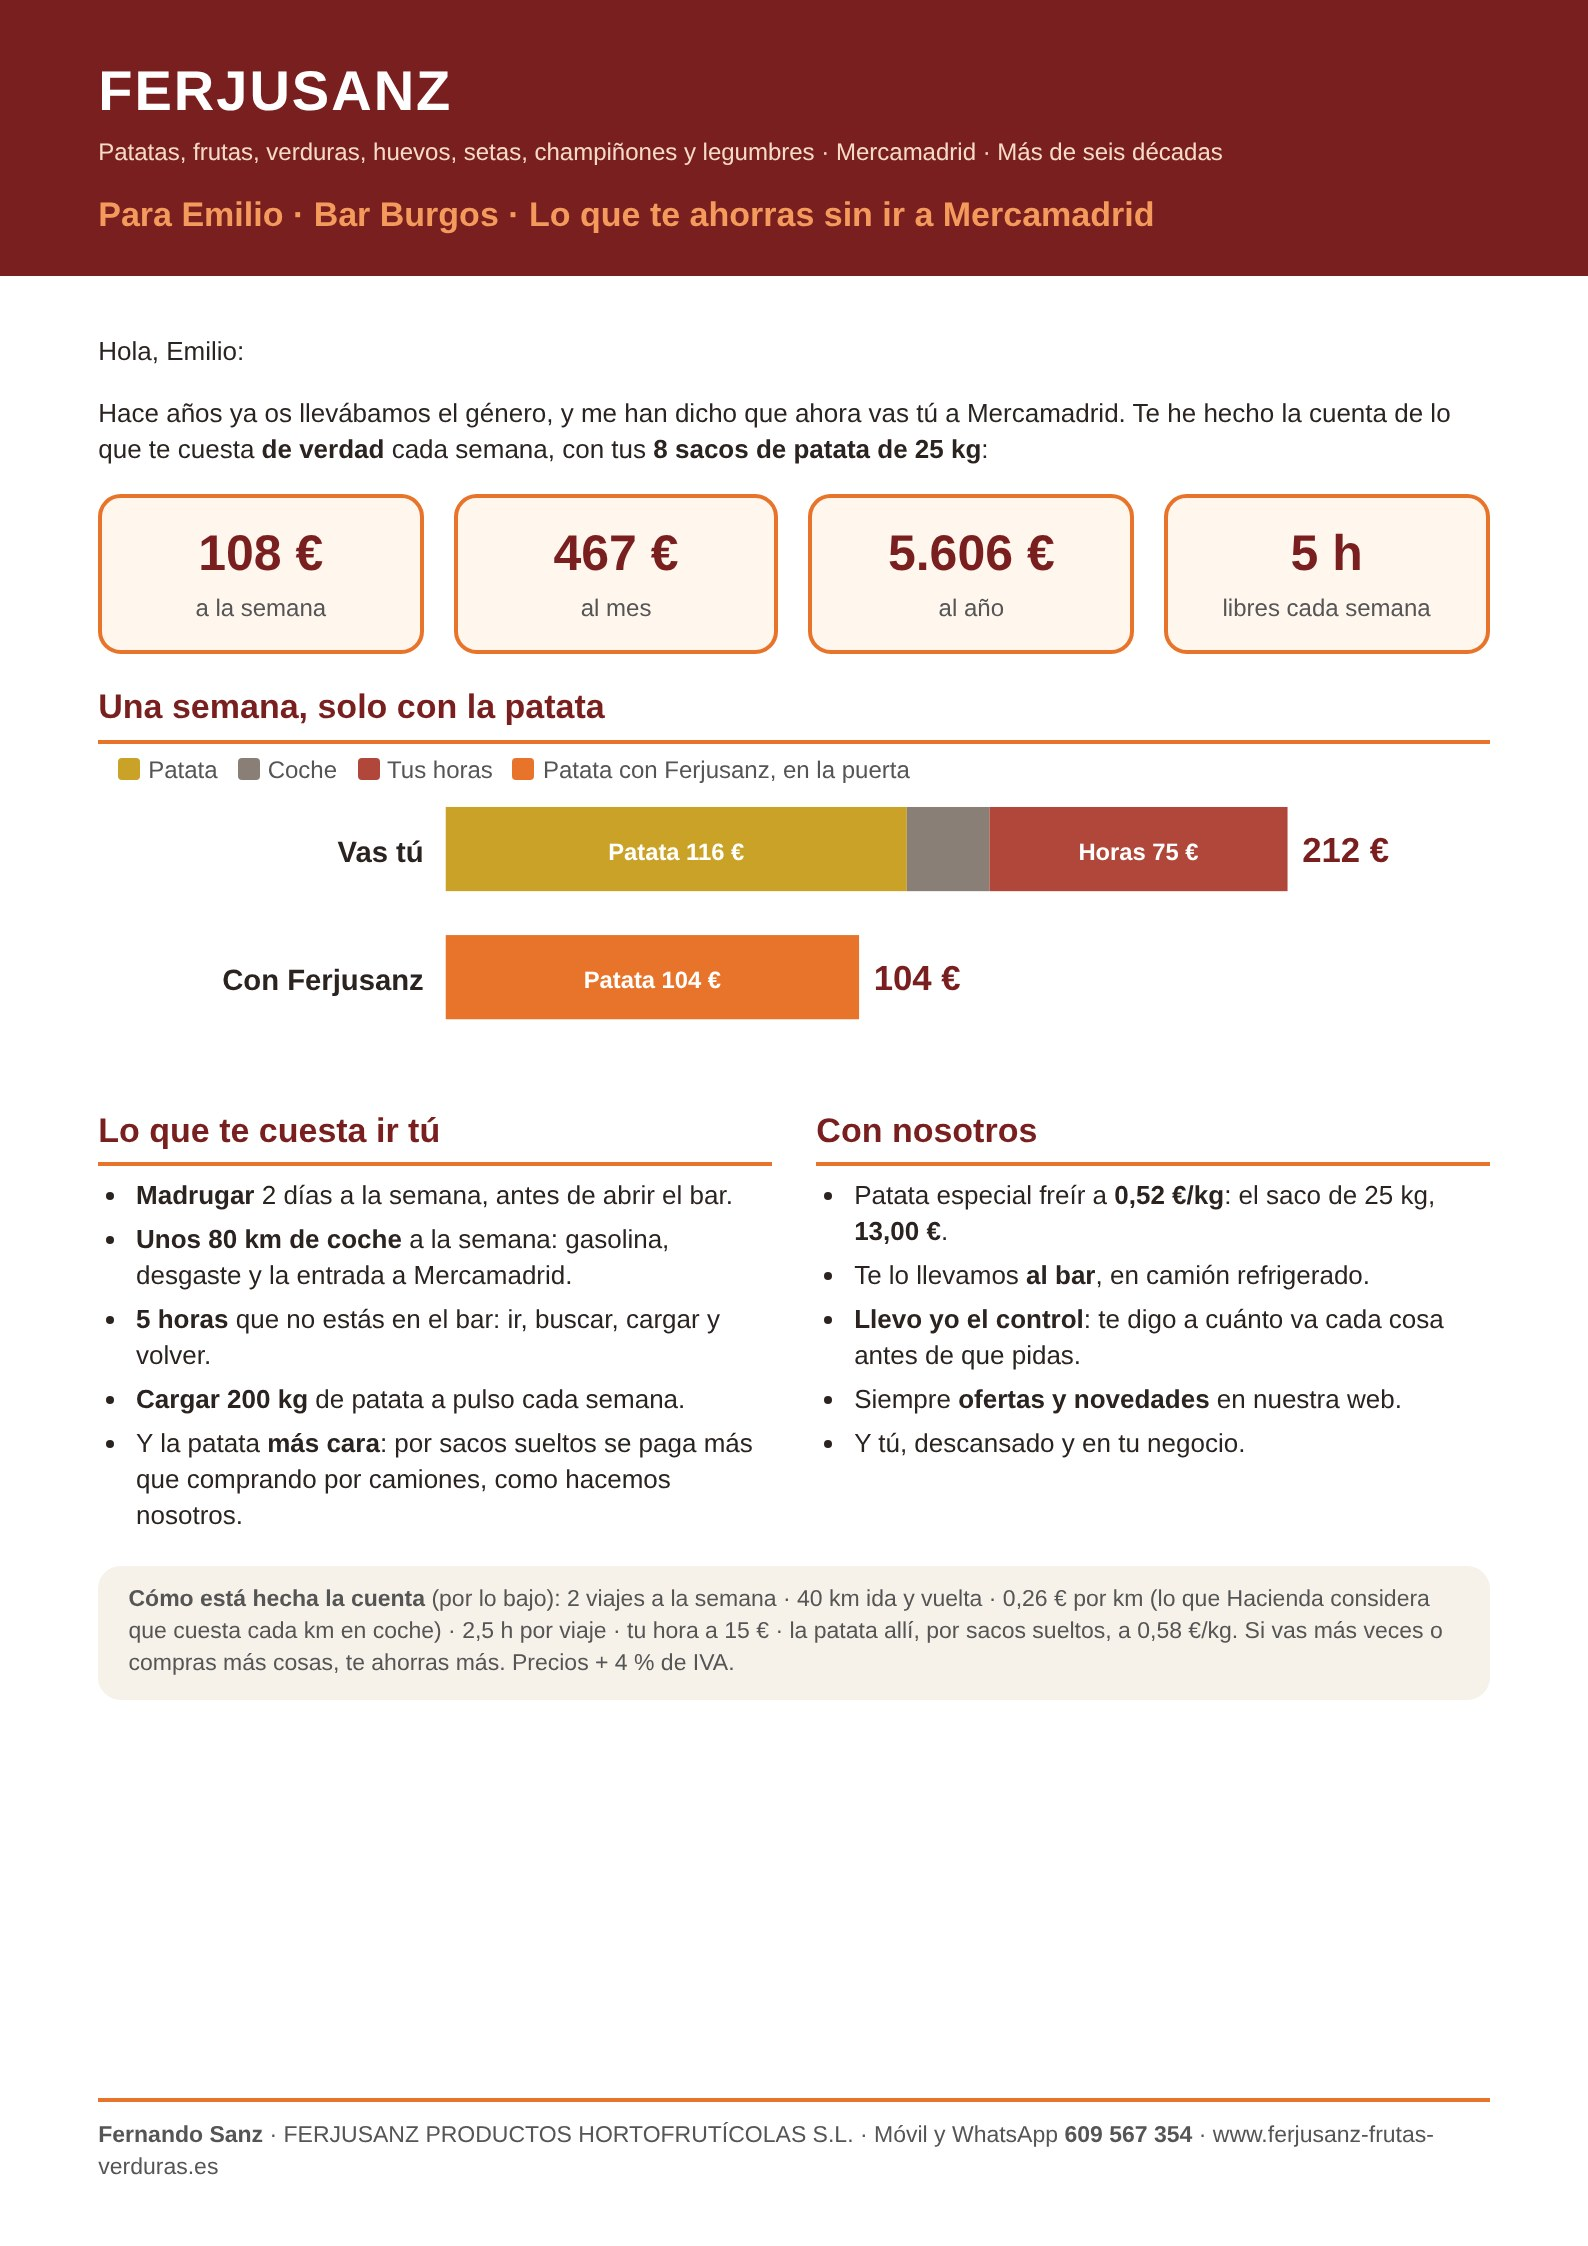
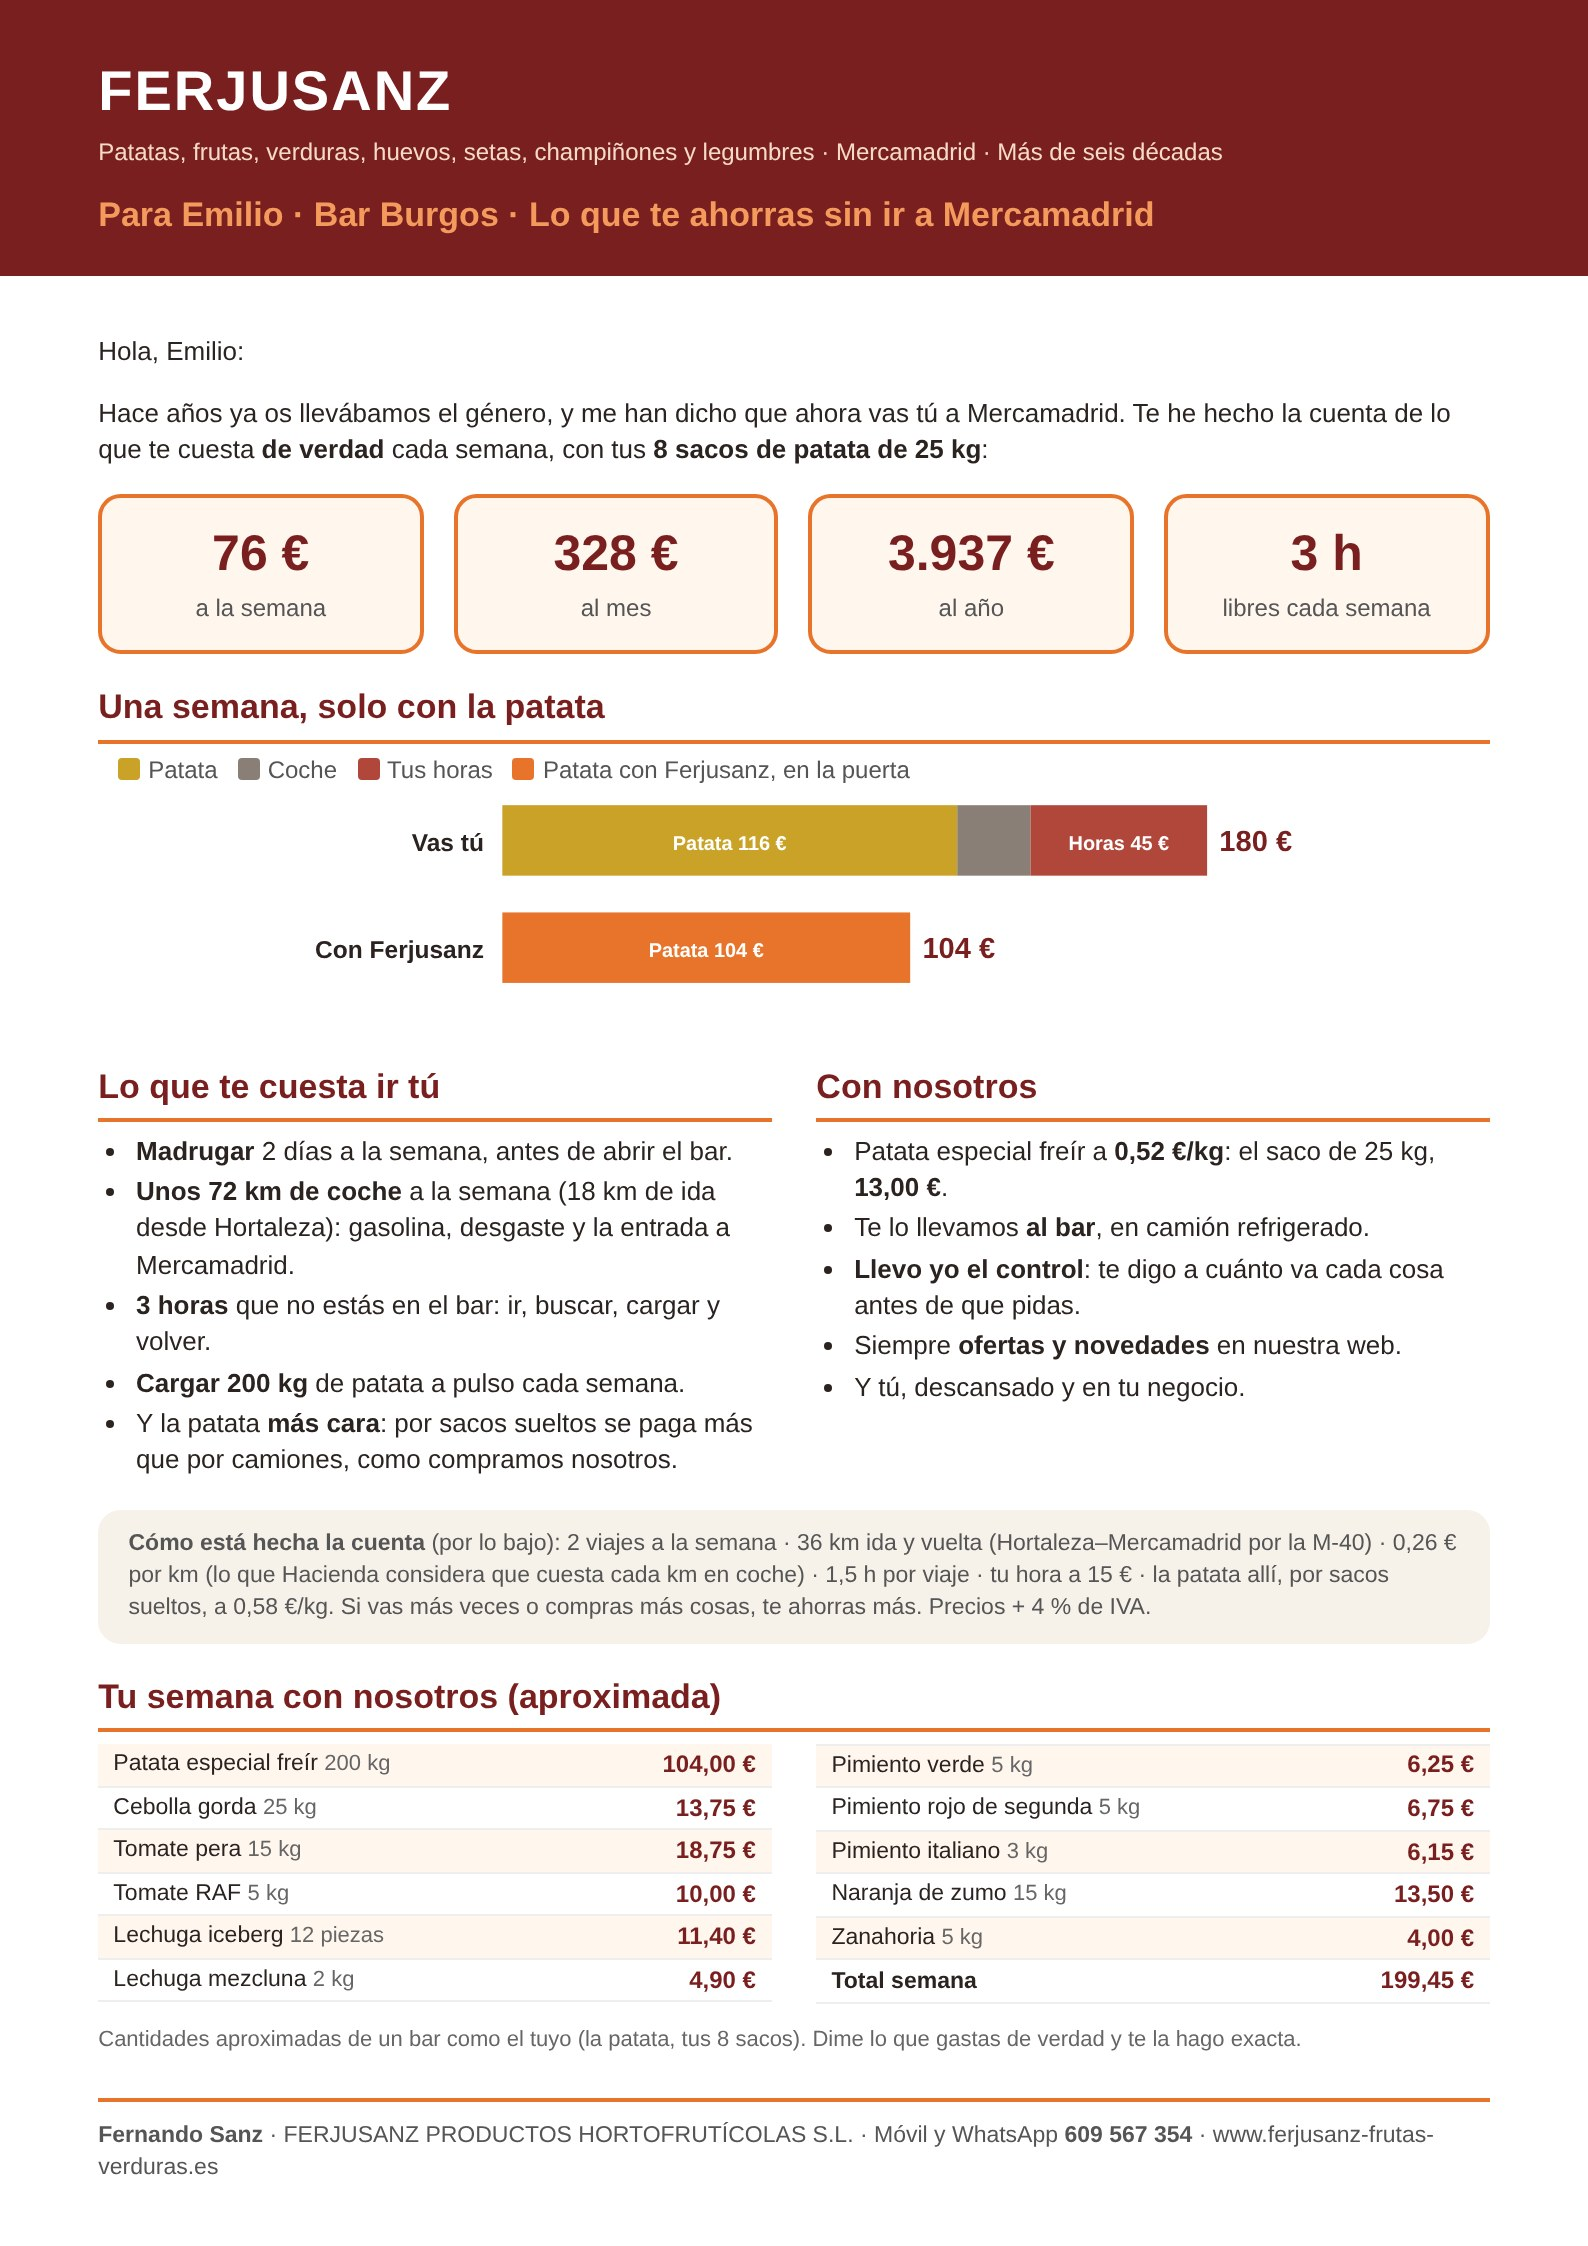
Bar Burgos: distancia real desde Hortaleza y semana de compra aproximada
Claude-Session: https://claude.ai/code/session_01VB7xFQz2MeBfvtdE1FX3Hs

diff --git a/docs/HISTORIAL.md b/docs/HISTORIAL.md
@@ -1,7 +1,7 @@
 # Historial de FERJUSANZ
 _Lo más nuevo arriba. El detalle de cada cambio está en el historial de GitLab (`git log`). Aquí van los cambios importantes, las decisiones y los errores corregidos._
 
-- **🚗 Bar Burgos (Emilio): «Lo que te ahorras sin ir a Mercamadrid» + precios + presentación (REBU; SQL en pruebas y real: solo añade una lista y una presentación)** (26/11/2026, Tito: «Emilio es el jefe… está yendo él a comprar a Mercamadrid… gráfico comparativo… gasolina, madrugar… 8 sacos a la semana de 25 kilos… PDF, JPG y presentación… tomate bueno, rama, raf, para la carta… no pongas el 609 100 690, pon el 609 56 73 54»). `docs/hosteleria/Ferjusanz-Burgos.pdf` (2 hojas) y `Ferjusanz-Burgos-1-lo-que-te-ahorras.jpg` / `-2-precios.jpg` (generador `docs/hosteleria/burgos.mjs`), y en Comercial › 🎬 Presentaciones **«Visita · Bar Burgos (Emilio)»** (9 láminas) con la lista **«Bar Burgos (Emilio)»** (14 productos, precio fijo). Sin historial en Golden (cliente REBU inactivo, «hace muchos años»). Cuenta por lo bajo, a la vista en la hoja: 2 viajes/semana, 40 km i/v a 0,26 €/km, 2,5 h por viaje a 15 €/h, patata allí por sacos sueltos a 0,58 (lo que nos cobran a nosotros por sacos sueltos: 0,50-0,66) → ahorro ~108 €/semana, ~467 €/mes, ~5.606 €/año y 5 h libres. Precios (compra Golden 14-24/11): patata especial freír 0,52 (compra 0,42 + 0,10; saco 13,00 €) · cebolla gorda 0,55 (0,45 + 0,10) · tomate pera 1,25 (como Duarte) · tomate en rama 1,70 y RAF 2,00 (como Padel Spirit, compra + 0,20) · mezcluna 2,45/kg · iceberg 0,95/pieza · naranja zumo 0,90 · pimientos compra + 0,25: rojo de primera 2,15, rojo de segunda 1,35, verde 1,25, italiano 2,05, Padrón 1,75 · zanahoria 0,80 (0,60 + 0,20). Solo el móvil 609 567 354. Comprobado en la app de pruebas (las hojas de puntos llevan 7 para que la app no ponga fotos al azar).
+- **🚗 Bar Burgos (Emilio): «Lo que te ahorras sin ir a Mercamadrid» + precios + presentación (REBU; SQL en pruebas y real: solo añade una lista y una presentación)** (26/11/2026, Tito: «Emilio es el jefe… está yendo él a comprar a Mercamadrid… gráfico comparativo… gasolina, madrugar… 8 sacos a la semana de 25 kilos… PDF, JPG y presentación… tomate bueno, rama, raf, para la carta… no pongas el 609 100 690, pon el 609 56 73 54»). `docs/hosteleria/Ferjusanz-Burgos.pdf` (2 hojas) y `Ferjusanz-Burgos-1-lo-que-te-ahorras.jpg` / `-2-precios.jpg` (generador `docs/hosteleria/burgos.mjs`), y en Comercial › 🎬 Presentaciones **«Visita · Bar Burgos (Emilio)»** (9 láminas) con la lista **«Bar Burgos (Emilio)»** (14 productos, precio fijo). Sin historial en Golden (cliente REBU inactivo, «hace muchos años»). Cuenta por lo bajo, a la vista en la hoja (corregida por Tito: «no son 80 km, está en Hortaleza»): 2 viajes/semana, 36 km i/v (Hortaleza–Mercamadrid por la M-40) a 0,26 €/km, 1,5 h por viaje a 15 €/h, patata allí por sacos sueltos a 0,58 (lo que nos cobran a nosotros por sacos sueltos: 0,50-0,66) → ahorro ~76 €/semana, ~328 €/mes, ~3.937 €/año y 3 h libres. Añadida «Tu semana con nosotros (aproximada)»: cesta de ejemplo (patata 200 kg, cebolla 25, tomate pera 15, RAF 5, iceberg 12 piezas…) ≈ 199,45 €/semana; solo la patata es dato real. Precios (compra Golden 14-24/11): patata especial freír 0,52 (compra 0,42 + 0,10; saco 13,00 €) · cebolla gorda 0,55 (0,45 + 0,10) · tomate pera 1,25 (como Duarte) · tomate en rama 1,70 y RAF 2,00 (como Padel Spirit, compra + 0,20) · mezcluna 2,45/kg · iceberg 0,95/pieza · naranja zumo 0,90 · pimientos compra + 0,25: rojo de primera 2,15, rojo de segunda 1,35, verde 1,25, italiano 2,05, Padrón 1,75 · zanahoria 0,80 (0,60 + 0,20). Solo el móvil 609 567 354. Comprobado en la app de pruebas (las hojas de puntos llevan 7 para que la app no ponga fotos al azar).
 - **🎾 Lista para el Restaurante Club de Tenis («Bustamante»; DIPAHI SL, TENIS; sin app ni SQL)** (26/11/2026, Tito: «lista barata para Bustamante… tomates bonitos, setas… 20 céntimos por encima… patatas igual que Duarte… ahora llevo yo las riendas… que pida antes y yo mismo le apunte a cuánto va a pagar»; primero Claude la hizo para Padel Spirit y Tito corrigió: es el cliente del pedido del 04/03/2026). `docs/hosteleria/Ferjusanz-precios-Club-de-Tenis.pdf` y `.jpg` (3 págs., `docs/hosteleria/bustamante.mjs`, fotos propias de `web/fotos`). En Golden solo compró en febrero y marzo (1.114 €; último 31/03). Patata agria 0,58 (como Duarte; en marzo la pagó a 0,46). El resto a compra del 14-24/11 + 0,20 €: tomate pera 1,20 · RAF 2,00 · RAF extra 4,70 · ensalada 1,40 · rosa 3,50 · rama 1,70 · cherry 4,95 · setas de ostra 4,00 · champiñón 3,00 · zanahoria 0,80 · calabacín 0,90 · berenjena 0,80 · pimiento italiano 2,00 · limón 1,20 · plátano 1,90 · melón y piña 1,70 · mezclum 2,15 · repollo 0,95…; ñoras según mercado. Su pedido del 04/03 a precios de hoy: 349,76 → 310,15 €. Rehecha (Tito: «no pongas en las fotos tomate RAF con el precio y luego otro precio… no lo repitas»): fotos sin precio y una sola lista con cada producto una vez; quitada la tabla del pedido de marzo (queda una frase con el total). 2 págs.
 - **📊 Los Barriletes: «Lo que os ahorraríais» (sin app ni SQL)** (26/11/2026, Tito: «eso me lo haces también para Barriletes… lo del gráfico»). `docs/hosteleria/Ferjusanz-Barriletes-lo-que-ahorrais.pdf` y `.jpg` (1 hoja, `docs/hosteleria/barriletes-comparativa.mjs`, lee Golden). Sus dos últimos albaranes: 02/10 129,48 → 80,64 € y 07/10 267,89 → 207,72 €. «Mes normal» = media feb-oct (9 meses): 1.119,79 → 861,01 €; ahorro ~259 €/mes, ~60 €/semana, ~3.105 €/año. Lo que no está en su hoja (melón, sandía, cherry…) se deja al mismo precio. En octubre solo pidió 2 veces (397 €).
 - **🥔 Propuesta para la Universidad Complutense (Juanjo; SQL en pruebas y real: solo añade una lista y una presentación)** (26/11/2026, Tito: «la patata a 0,40… varios tipos… foto de un saco… JPG, PDF, presentación… que quede dentro de la aplicación… tomates como Florencio y Barriletes… naranjas a 0,85… el resto casi con 15 céntimos de margen»). `docs/universidades/Ferjusanz-Complutense.pdf` y `.jpg` (1 hoja, firma «Fernando Sanz», foto real de nuestros sacos de la web) y en Comercial › 🎬 Presentaciones **«Visita · Universidad Complutense (Juanjo)»** (portada, «Me lo tomo muy en serio», fotos patata/huevos/naranja/tomate con precio, «La patata a 0,40, sin sorpresas», sus precios y contacto) con la lista nueva **«Universidades Complutense»** (22 productos, precio fijo, sin recomendaciones). Generador: `docs/universidades/complutense.mjs`. Precios sobre la compra de Golden del 24/11: patata de saco pequeño (de tornear, nos cuesta 0,28-0,40) a 0,40 y plan B patata agria 0,50 (nos cuesta 0,42); tomate ensalada y pera 1,10 (igual que Barriletes; a 1,00 sería a coste); naranja zumo 0,85 (cuesta 0,70); resto coste + 0,15 (huevos 2,15/docena, cebolla 0,60, ajo pelado 3,45…). Antes nos pagaban de media: patata 0,65, huevos 2,40, tomate rambo 2,11, naranja 1,29. Gemini no pudo hacer la foto (sin cuota para imágenes en el plan gratis). Comprobado en la app de pruebas. Después, ajustes de Tito: huevos 2,20, pimiento verde 1,20, ajo pelado 3,60, limones 1,35, cebolla gorda 0,70, cebolla calibre pequeño 0,62 (nueva), naranja zumo 0,90; hoja nueva «Os lo ponemos fácil» (os colocamos todo el género, puntuales, con cada pedido os llega lo que os va a salir) y el mismo texto en la hoja PDF/JPG; fuera la foto de patata pelada (él no la gasta) y la de tomate raf/asurcado, ahora tomate en rama. 9 hojas, comprobadas en pruebas.
